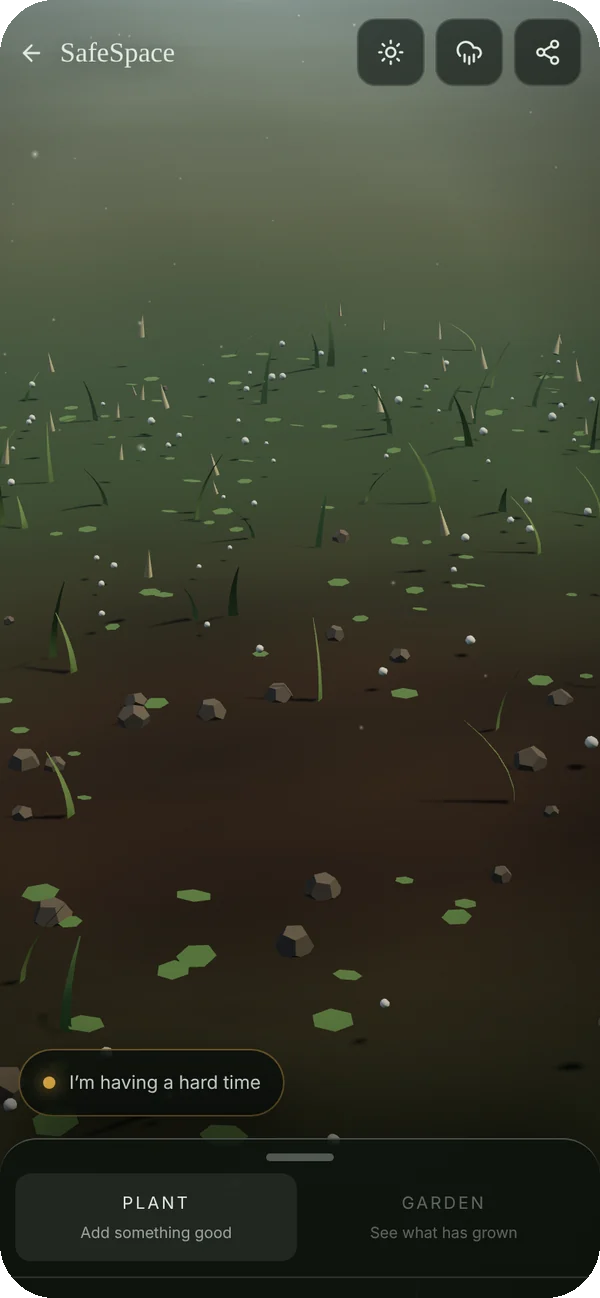
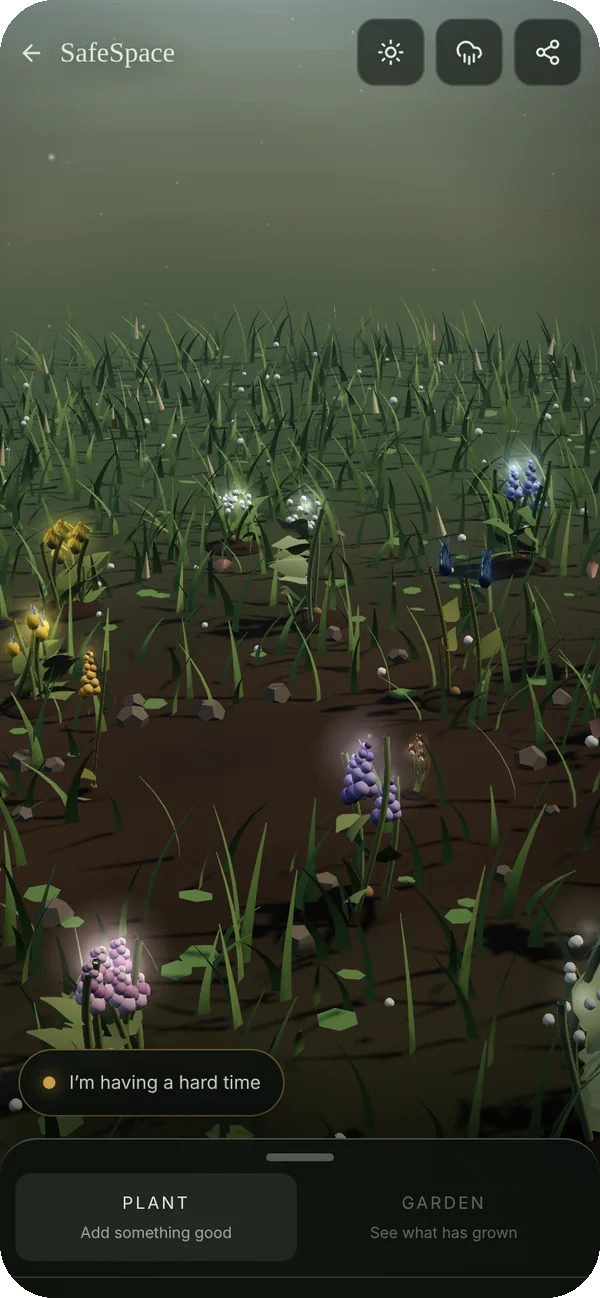
Show a grown Gratitude Garden instead of an empty one
Re-capture the garden screen with sample good moments so it shows the
flowers each saved moment grows.

Claude-Session: https://claude.ai/code/session_01XtANFajcYvE7h2WSiTfw9q

diff --git a/index.html b/index.html
@@ -349,7 +349,7 @@
       <div class="shots">
         <figure class="shot shot--12 shot--phones shot--sage" data-reveal>
           <img src="assets/work/ss-life-map.webp" alt="Life Map screen" width="600" height="1298" loading="lazy">
-          <img src="assets/work/ss-garden.webp" alt="Gratitude Garden screen" width="600" height="1298" loading="lazy">
+          <img src="assets/work/ss-garden.webp" alt="Gratitude Garden with flowers grown from saved good moments" width="600" height="1298" loading="lazy">
           <img src="assets/work/ss-guided.webp" alt="Guided session screen" width="600" height="1298" loading="lazy">
           <figcaption>Life Map · Gratitude Garden · Guided session</figcaption>
         </figure>
